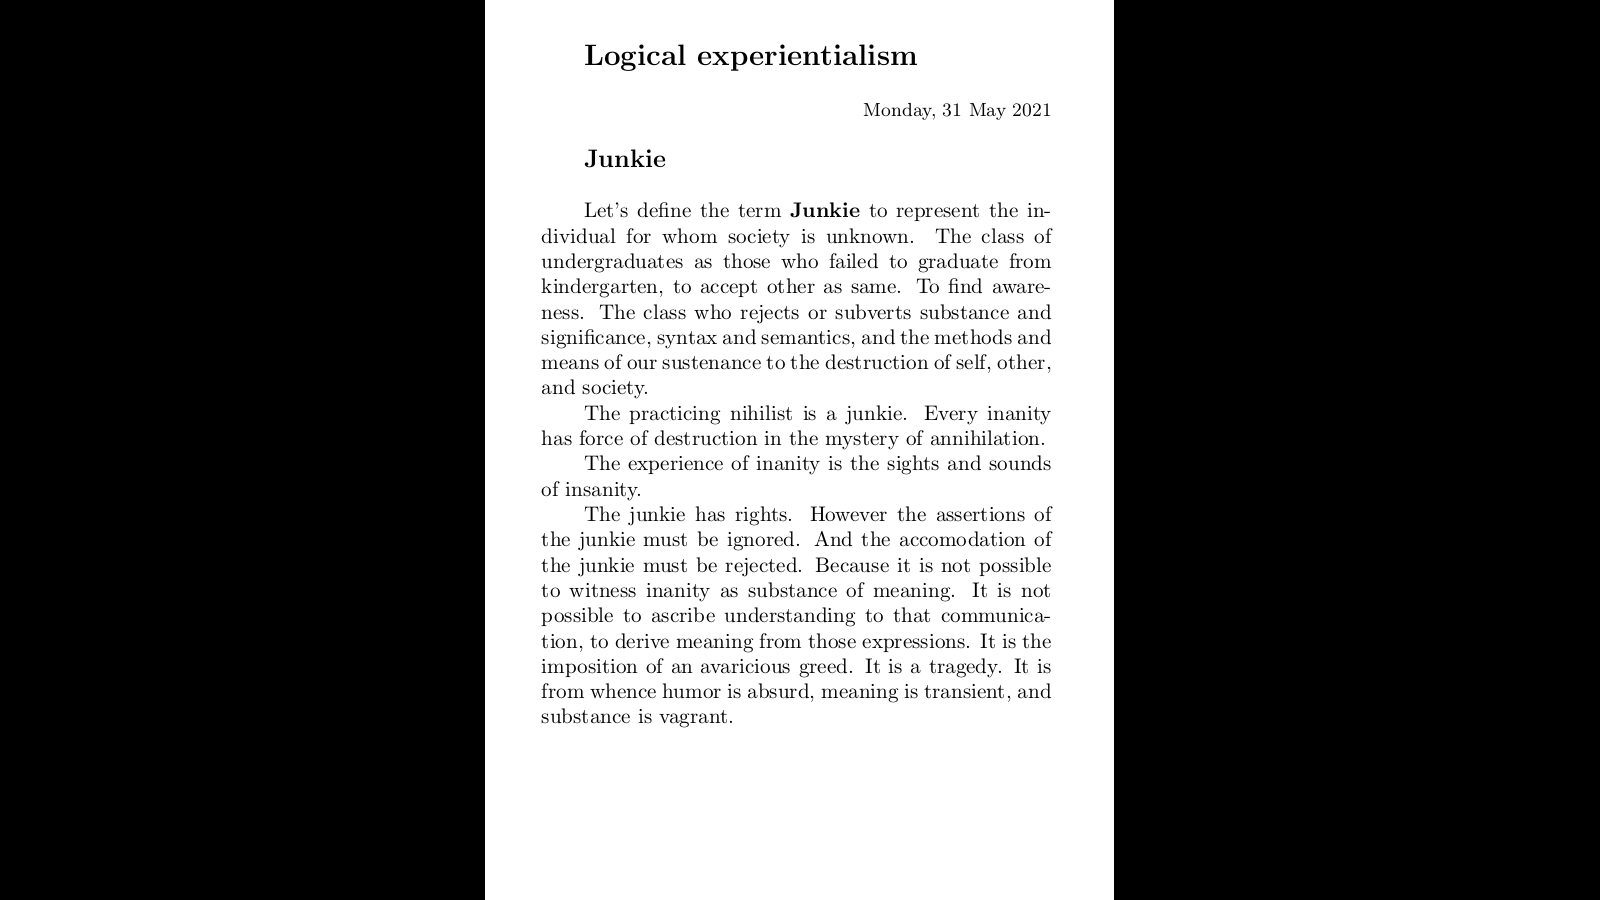
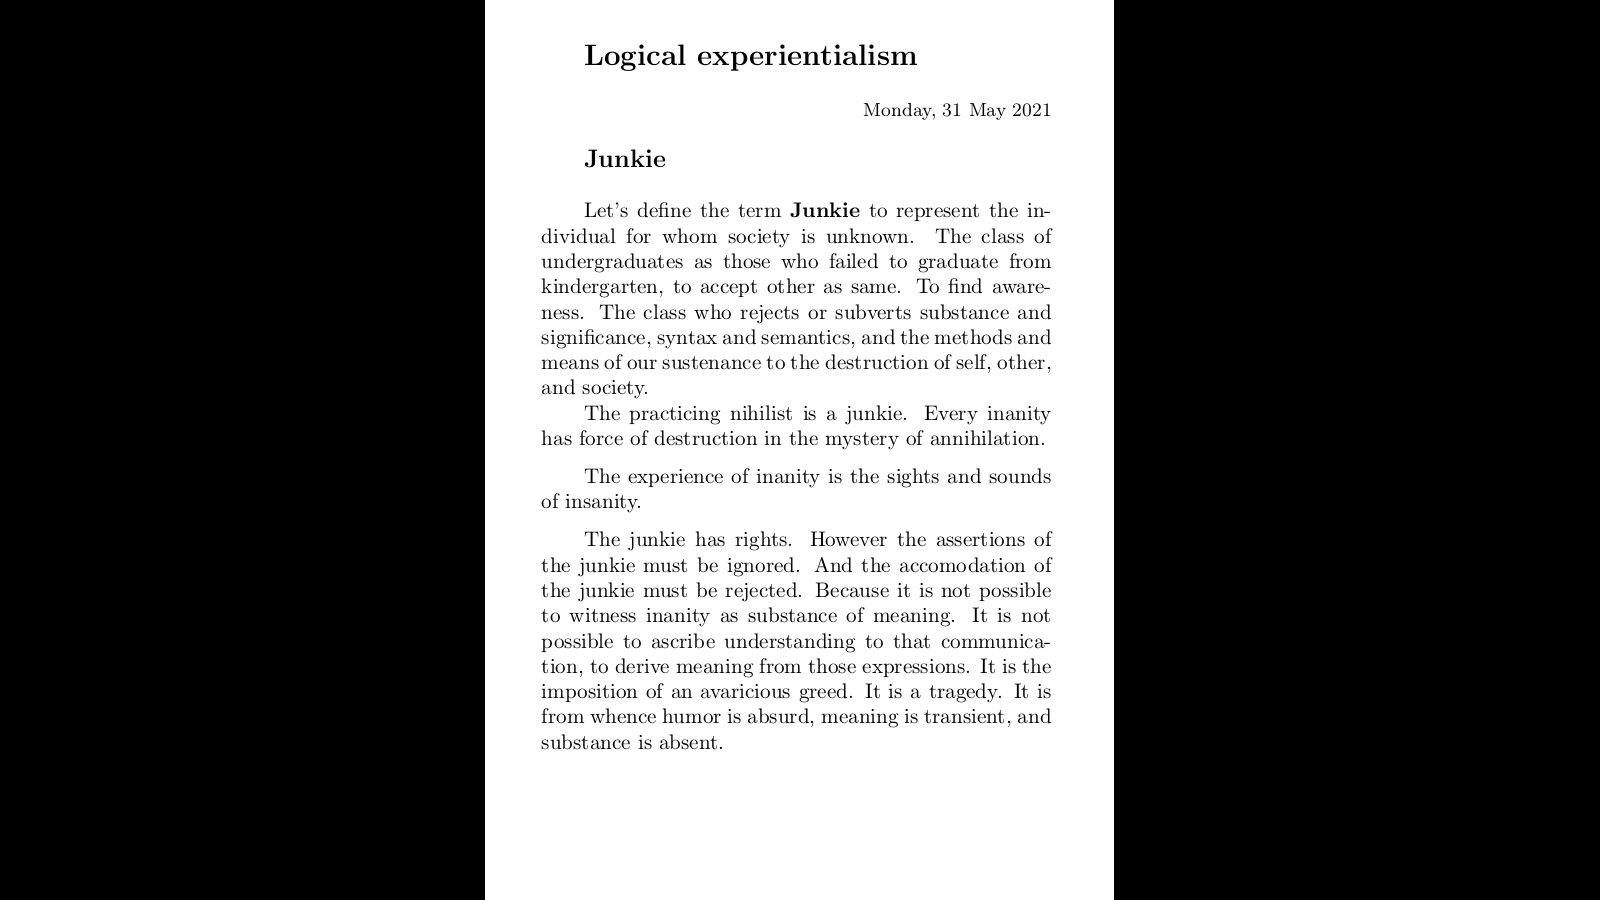
junkie

Changed region(s): [[0.3438, 0.4978, 0.6562, 0.84]]

diff --git a/2021/cygnus-20210531-0.tex b/2021/cygnus-20210531-0.tex
@@ -18,7 +18,11 @@ sustenance to the destruction of self, other, and society.
 The practicing nihilist is a junkie.  Every inanity has force of
 destruction in the mystery of annihilation.  
 
+\medskip
+
 The experience of inanity is the sights and sounds of insanity.  
+
+\medskip
 
 The junkie has rights.  However the assertions of the junkie must be
 ignored.  And the accomodation of the junkie must be rejected.
@@ -26,6 +30,6 @@ Because it is not possible to witness inanity as substance of meaning.
 It is not possible to ascribe understanding to that communication, to
 derive meaning from those expressions.  It is the imposition of an
 avaricious greed.  It is a tragedy.  It is from whence humor is
-absurd, meaning is transient, and substance is vagrant.
+absurd, meaning is transient, and substance is absent.
 
 \bye
